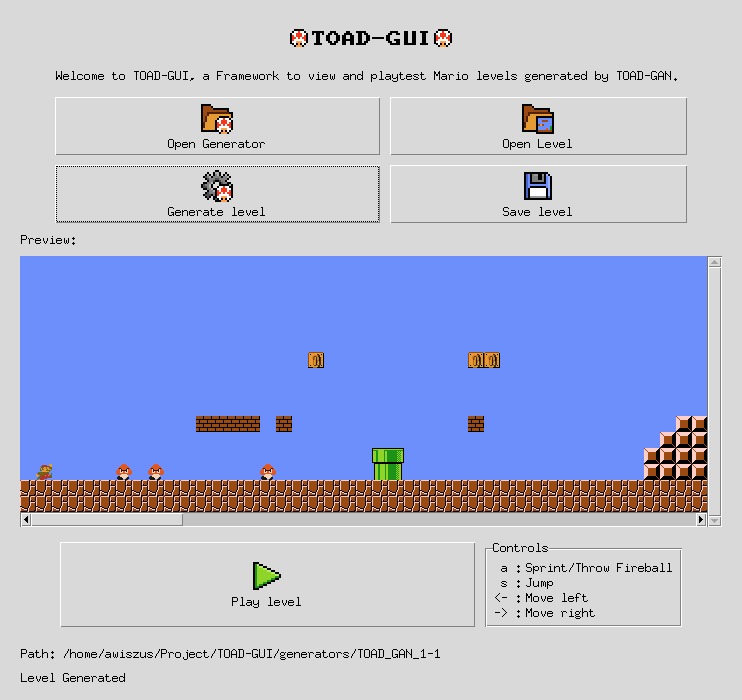
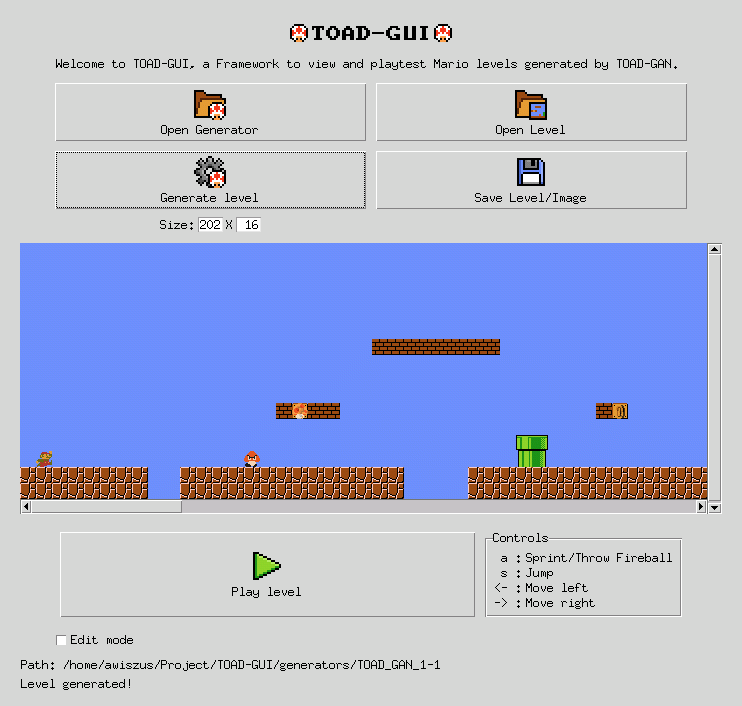
Updated README.md with new funtionality.

diff --git a/GUI.py b/GUI.py
@@ -440,9 +440,9 @@ def TOAD_GUI():
     size_frame.grid(column=1, row=5, columnspan=1, sticky=(N, S), padx=5, pady=2)
 
     h_label.grid(column=0, row=0, sticky=(N, S, E), padx=1, pady=0)
-    h_entry.grid(column=1, row=0, sticky=(N, S), padx=1, pady=0)
+    l_entry.grid(column=1, row=0, sticky=(N, S), padx=1, pady=0)
     l_label.grid(column=2, row=0, sticky=(N, S), padx=1, pady=0)
-    l_entry.grid(column=3, row=0, sticky=(N, S), padx=1, pady=0)
+    h_entry.grid(column=3, row=0, sticky=(N, S), padx=1, pady=0)
 
     play_button.grid(column=1, row=0, sticky=(N, S, E, W), padx=5, pady=5)
     controls_frame.grid(column=2, row=0, sticky=(N, S, E, W), padx=5, pady=5)
@@ -584,7 +584,7 @@ def TOAD_GUI():
                                  command=lambda: spawn_thread(q, re_sample))
     sample_info = ttk.Label(emode_frame, text="Right click to edit Tokens directly.\n"
                                               "Resampling will regenerate the level,\n"
-                                              "so prior Token edits will be reversed.")
+                                              "so prior Token edits will be lost.")
     confirm_sample_button = ttk.Button(emode_frame, text="Confirm", state='disabled',
                                        command=lambda: spawn_thread(q, confirm_sample))
 

diff --git a/README.md b/README.md
@@ -5,7 +5,7 @@ Generation is done with pre-trained [TOAD-GAN](https://tntgit:3000/awiszus/TOAD-
 For more information on TOAD-GAN, please refer to the paper (link to be added) and the [github](https://tntgit:3000/awiszus/TOAD-GAN).
 
 <br/>
-<img align="center" alt="TOAD-GUI linux example" src="https://tntgit:3000/awiszus/TOAD-GUI/media/branch/master/icons/TOAD_GUI_example.png">
+<img align="center" alt="TOAD-GUI linux example" src="https://tntgit:3000/awiszus/TOAD-GUI/media/branch/dev/icons/TOAD_GUI_example.png">
 <br/><br/>
 
 This project uses the [Mario-AI-Framework](http://marioai.org/) by [Ahmed Khalifa](https://scholar.google.com/citations?user=DRcyg5kAAAAJ&hl=en) and includes graphics from the game _Super Mario Bros._ **It is not affiliated with or endorsed by Nintendo.
@@ -48,13 +48,23 @@ Make sure you are using the python installation you installed the prerequisites 
 When running TOAD-GUI you can:
 * ![toad folder](icons/folder_toad.png) Open a Generator (TOAD-GAN)
 * ![level folder](icons/folder_level.png) Open a (previously saved) level `.txt` to view and/or play
-* ![gear toad](icons/gear_toad.png) Generate a level (active only when a generator is loaded)
-* ![save button](icons/save_button.png) Save the generated level to a `.txt` or `.png` image file
+* ![gear toad](icons/gear_toad.png) Generate a level of the size defined in the entries below
+* ![save button](icons/save_button.png) Save the currently loaded level level to a `.txt` or `.png` image file
 * ![play button](icons/play_button.png) Play the currently loaded level
 
-The labels at the bottom will display the currently loaded path and information.
-If the an info is not yet displayed after clicking the corresponding button, it is still running the previous command!
-Impatiently clicking the button again might crash the program. 
+When a level is loaded, **right clicking** a point in the preview will allow you to change the token at that specific spot.
+If you resample the level, any changes made will be lost.
+
+The labels at the bottom will display the currently loaded path and information. 
+This program was made mostly by one researcher and is not optimized.
+Impatiently clicking buttons might crash the program.
+
+#### Edit Mode
+In this mode, parts of a generated level can be resampled with TOAD-GAN. 
+The red bounding box shows the area to be changed, while the yellow bounding box shows which blocks can still be affected by that change.
+The area of effect depends on the scale which is to be resampled and is a result of the Field of View produced by the convolutional layers.
+Changes in a lower scale will result in larger changes in the final level.
+
 
 ### TOAD-GAN
 
